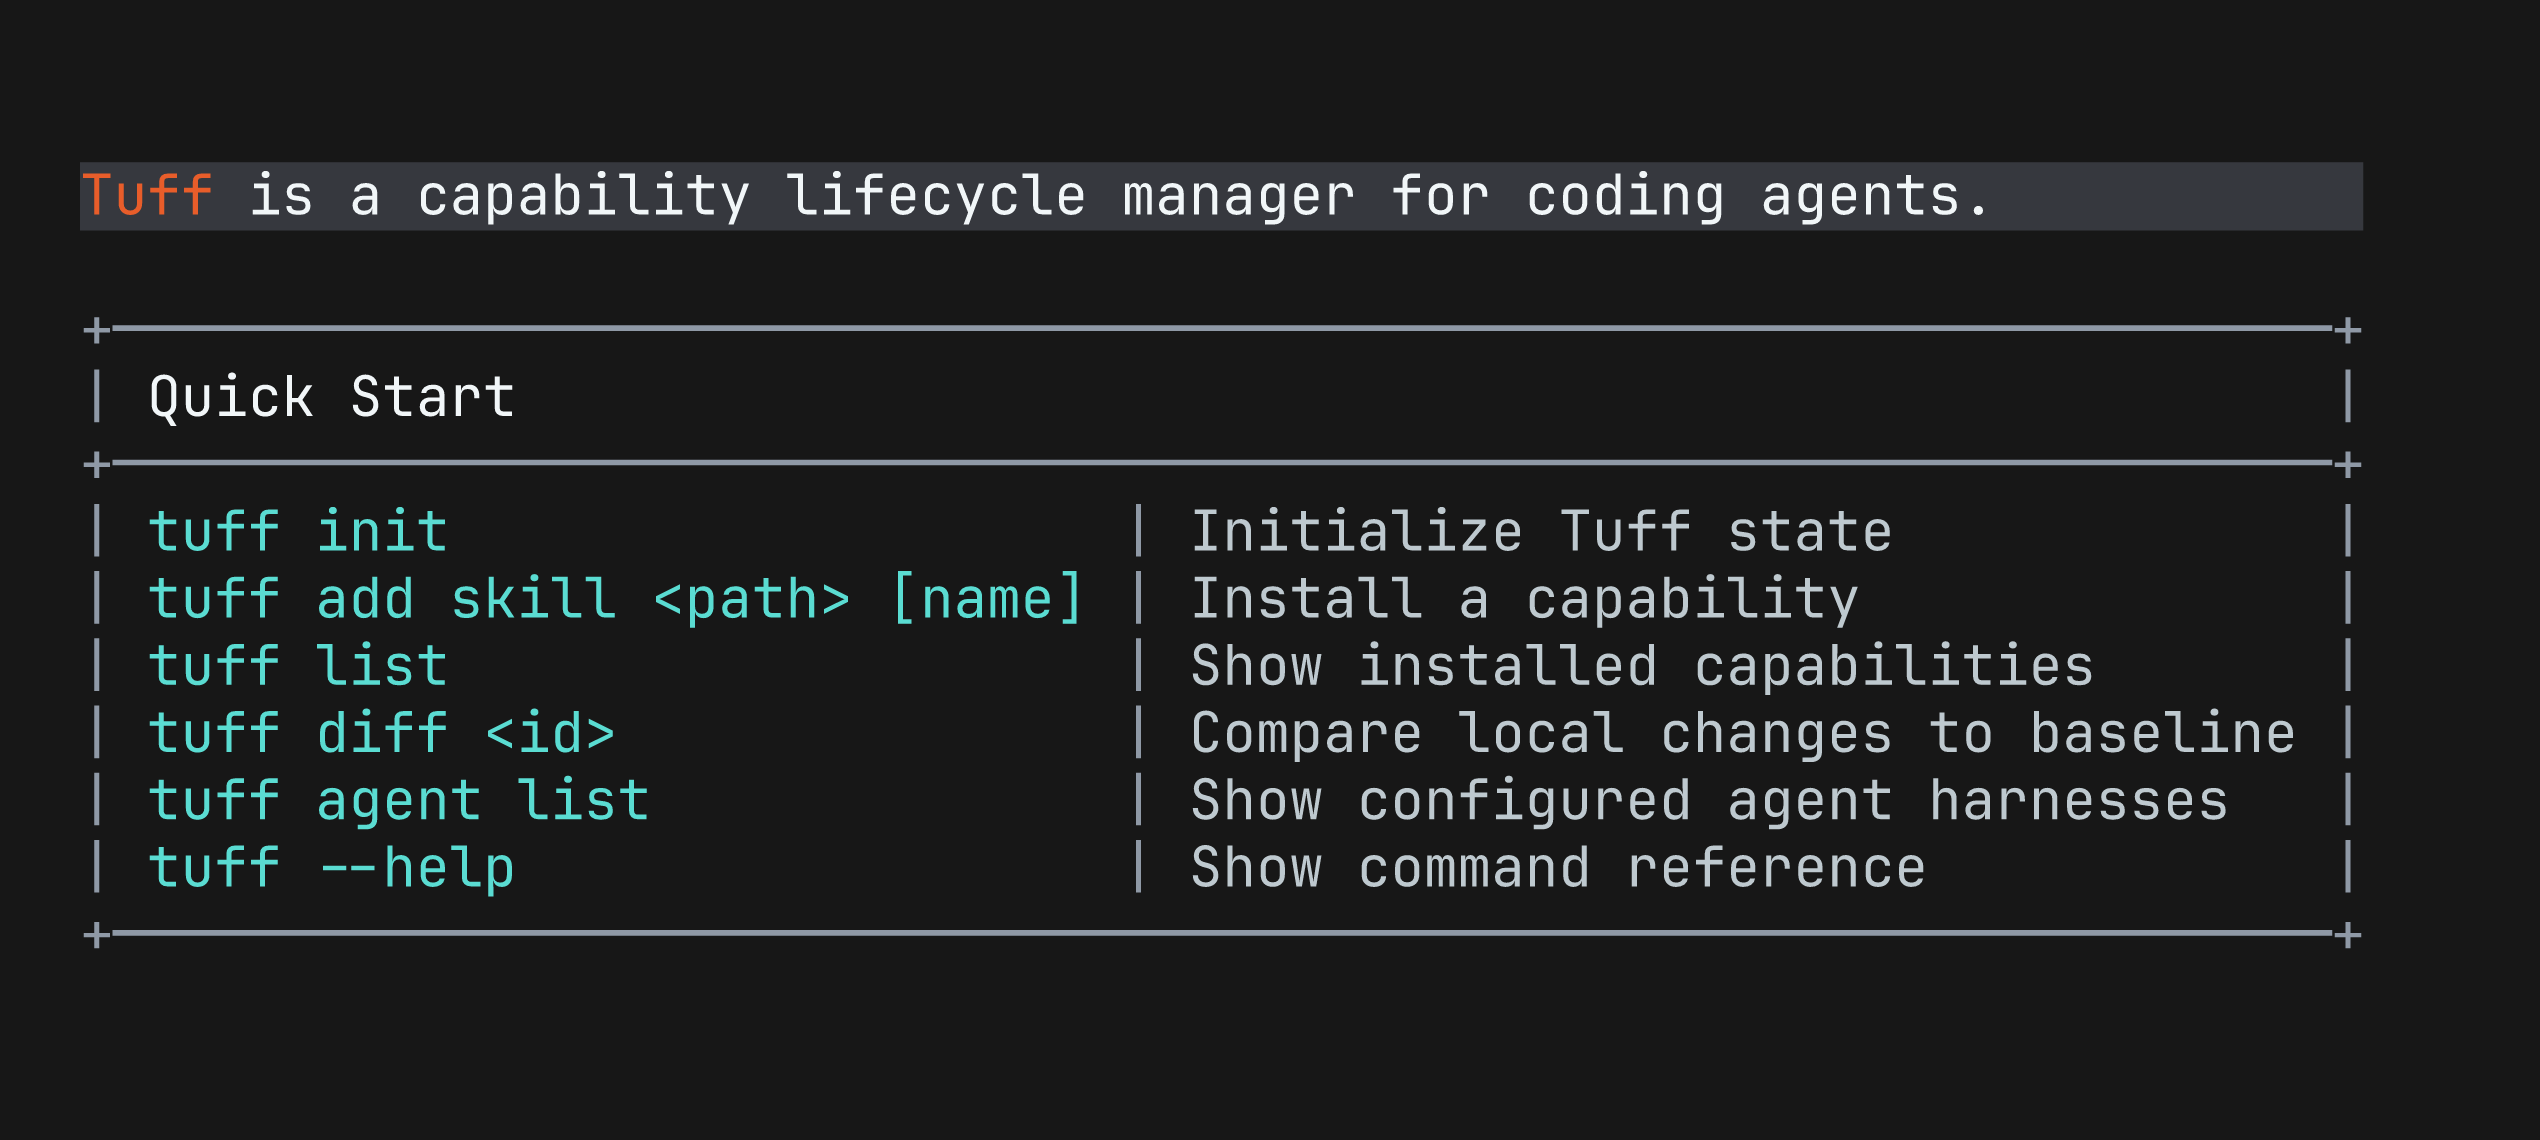
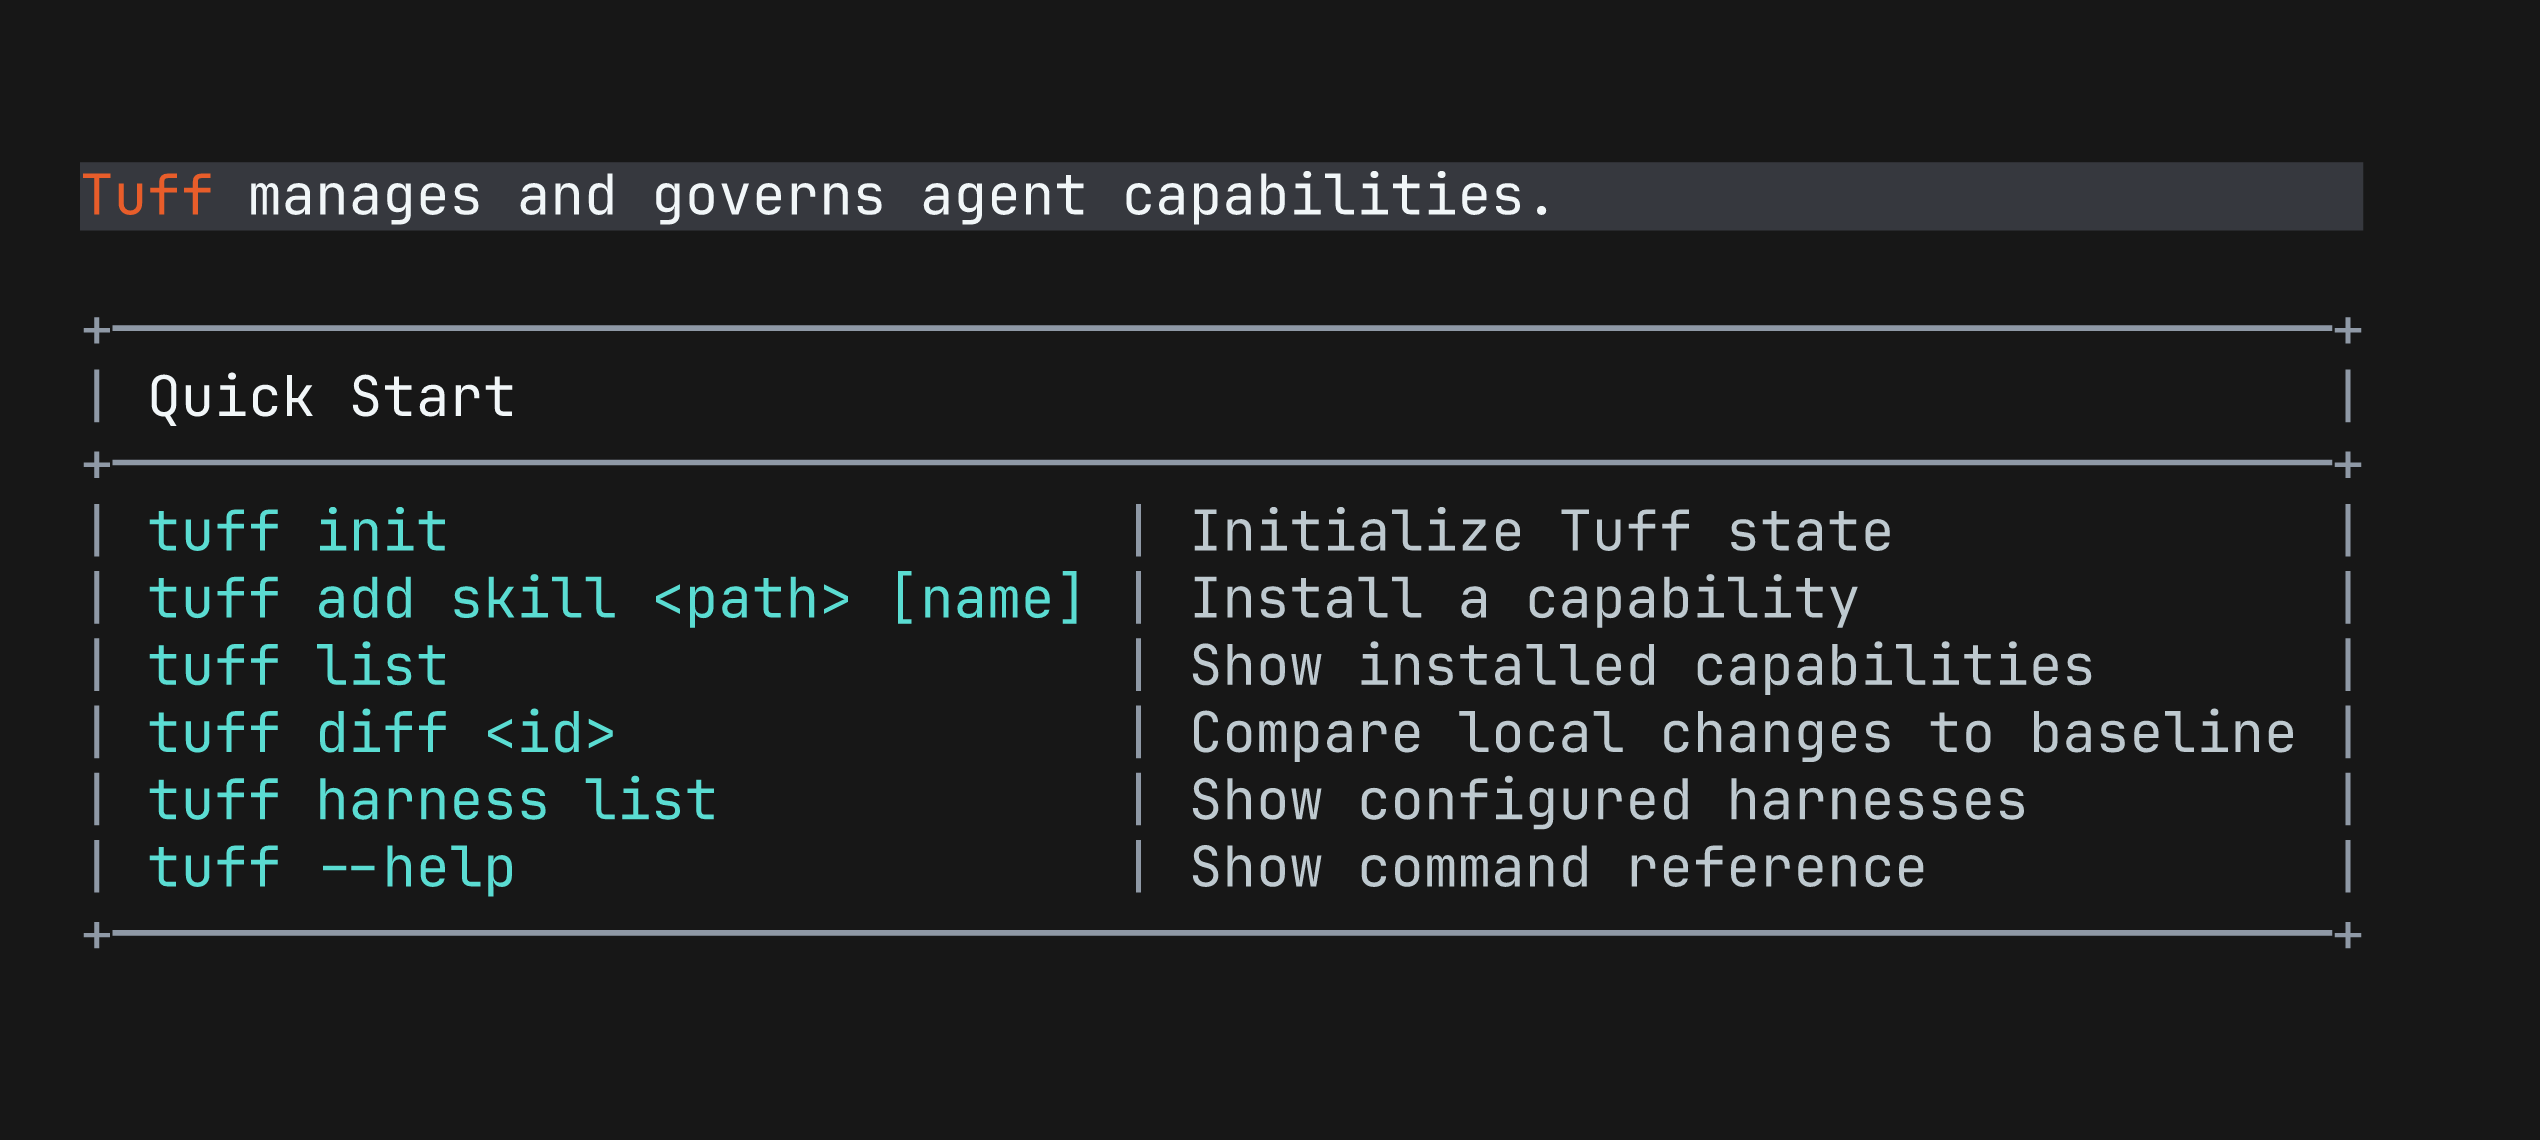
feat: use "Manage and govern agent capabilities." as the tagline (#192)
The landing page title, share preview, and image description, the docs
site description, and the README headline use the new tagline. The CLI
welcome banner reads "Tuff manages and governs agent capabilities.",
and the crates.io, PyPI, Homebrew, Claude Code plugin, and marketplace
descriptions use it too.

The Getting Started welcome screenshot is regenerated, which also
replaces the removed `tuff agent list` with `tuff harness list`.

diff --git a/crates/tuff-cli/src/display.rs b/crates/tuff-cli/src/display.rs
@@ -62,11 +62,11 @@ fn quick_start_width() -> usize {
 }
 
 fn render_ribbon(colors: &Palette<'_>, width: usize) -> String {
-    let text = "Tuff is a capability lifecycle manager for coding agents.";
+    let text = "Tuff manages and governs agent capabilities.";
     let padding = width.saturating_sub(text.chars().count());
 
     format!(
-        "{ribbon}{tuff}Tuff{white} is a capability lifecycle manager for coding agents.{padding}{reset}",
+        "{ribbon}{tuff}Tuff{white} manages and governs agent capabilities.{padding}{reset}",
         ribbon = colors.ribbon,
         tuff = colors.tuff,
         white = colors.white,
@@ -208,13 +208,13 @@ mod tests {
         let init = render_init_banner(false);
         assert!(welcome.contains("Quick Start"));
         assert!(!init.contains("Quick Start"));
-        assert!(init.contains("capability lifecycle manager"));
+        assert!(init.contains("manages and governs agent capabilities"));
     }
 
     #[test]
     fn tagline_is_first_banner_content() {
         let welcome = render_welcome(false);
-        assert!(welcome.contains("Tuff is a capability lifecycle manager for coding agents."));
+        assert!(welcome.contains("Tuff manages and governs agent capabilities."));
         assert!(!welcome.contains("▄▄"));
         assert!(!welcome.contains("████"));
     }

diff --git a/crates/tuff-cli/tests/cli.rs b/crates/tuff-cli/tests/cli.rs
@@ -343,7 +343,7 @@ fn bare_command_outputs_welcome_menu() {
         .success()
         .stdout(predicate::str::contains("Tuff"))
         .stdout(predicate::str::contains(
-            "is a capability lifecycle manager for coding agents.",
+            "manages and governs agent capabilities.",
         ))
         .stdout(predicate::str::contains("tuff init"))
         .stdout(predicate::str::contains("tuff add"))

diff --git a/CHANGELOG.md b/CHANGELOG.md
@@ -13,6 +13,10 @@ The historical entries below were reconstructed from release tags, merged pull r
 - **MCP servers install for OpenCode through the `opencode` target.** OpenCode reads MCP servers from `opencode.json`, under `mcp`, and not from `.agents/mcp.json`, so a server installed with `-a open-agents` never started in OpenCode. `tuff add mcp <server> -a opencode` now writes the entry into `.opencode/opencode.json`, in OpenCode's own shape: `type` is `local` or `remote`, a local server's program and arguments are one `command` array, its variables sit under `environment`, and a variable is referenced as `{env:VAR}`. The file's other keys keep their order, since OpenCode reads the order of `permission` rules as precedence. `tuff check` reports a hand-edited entry, and `tuff delete` removes the entry, the `mcp` object once it is empty, and the file once only `$schema` is left. The docs no longer say OpenCode reads `.agents/mcp.json`.
 - **Policy `mcp` rules are enforced in Codex.** `tuff add` writes them onto the server's table in `.codex/config.toml`: `deny` adds the tool to `disabled_tools`, which removes it from the session, and `ask` sets `approval_mode = "prompt"` on `[mcp_servers.<server>.tools.<tool>]`. Both take exact names, so a rule with `*` is not enforced in Codex and installs only with `--accept-unenforced`. The server must already be in `.codex/config.toml`, or the policy is refused. Codex calls a `prompt` tool without asking when its approval policy is `never` and the sandbox allows full disk access or is off, so Tuff reports these rules as enforced partially. Checked in Codex CLI 0.154.0 in a trusted project: a denied tool was absent from the session, and `codex exec` refused a `prompt` tool. `tuff update` of the server keeps these settings, `tuff check` ignores them when it compares the server's entry and reports them for the policy, and `tuff delete` refuses to remove the server while a policy has settings on it.
 
+### Changed
+
+- **The tagline is "Manage and govern agent capabilities."** `tuff` prints "Tuff manages and governs agent capabilities." in its welcome banner, and the crates.io, PyPI, Homebrew, and Claude Code plugin descriptions use the new tagline. A script that matched the old banner text needs the new wording.
+
 ### Fixed
 
 - **Codex hooks are written where Codex reads them.** The Codex adapter registered hooks in `.agents/hook.json` under event names such as `pre_tool_execution`, which Codex never reads, so a hook installed for Codex never ran. It now writes `.codex/hooks.json`, in the grouped shape Claude Code uses, with Codex's own events: `session_start` to `SessionStart`, `session_end` to `SessionEnd`, `pre_tool_use` to `PreToolUse`, `post_tool_use` to `PostToolUse`, `stop` to `Stop`, and `before_finish` to `Stop` partially; `after_save` has no Codex event and is refused. The old names stay as aliases, so a manifest that uses one still installs. Checked in Codex CLI 0.154.0, where a `SessionStart` and a `PreToolUse` hook registered this way both ran. Codex loads a project's hooks only in a trusted project and only after they are approved with `/hooks`, and `tuff add` says so. `tuff update <id> -a codex` moves a hook installed earlier, removing its registration from `.agents/hook.json`. The hooks specification's Codex matrix changes with it, without a specification version change, and the Open Agents matrix no longer cites Codex's documentation for events no harness documents.

diff --git a/README.md b/README.md
@@ -2,7 +2,7 @@
 
 <h1 align="center">Tuff</h1>
 
-<p align="center"><strong>Make your coding-agent playbook reproducible.</strong></p>
+<p align="center"><strong>Manage and govern agent capabilities.</strong></p>
 
 <p align="center">Install, version, diff, and update the skills, tools, hooks, MCP servers, and policies that make your agents useful.</p>
 
